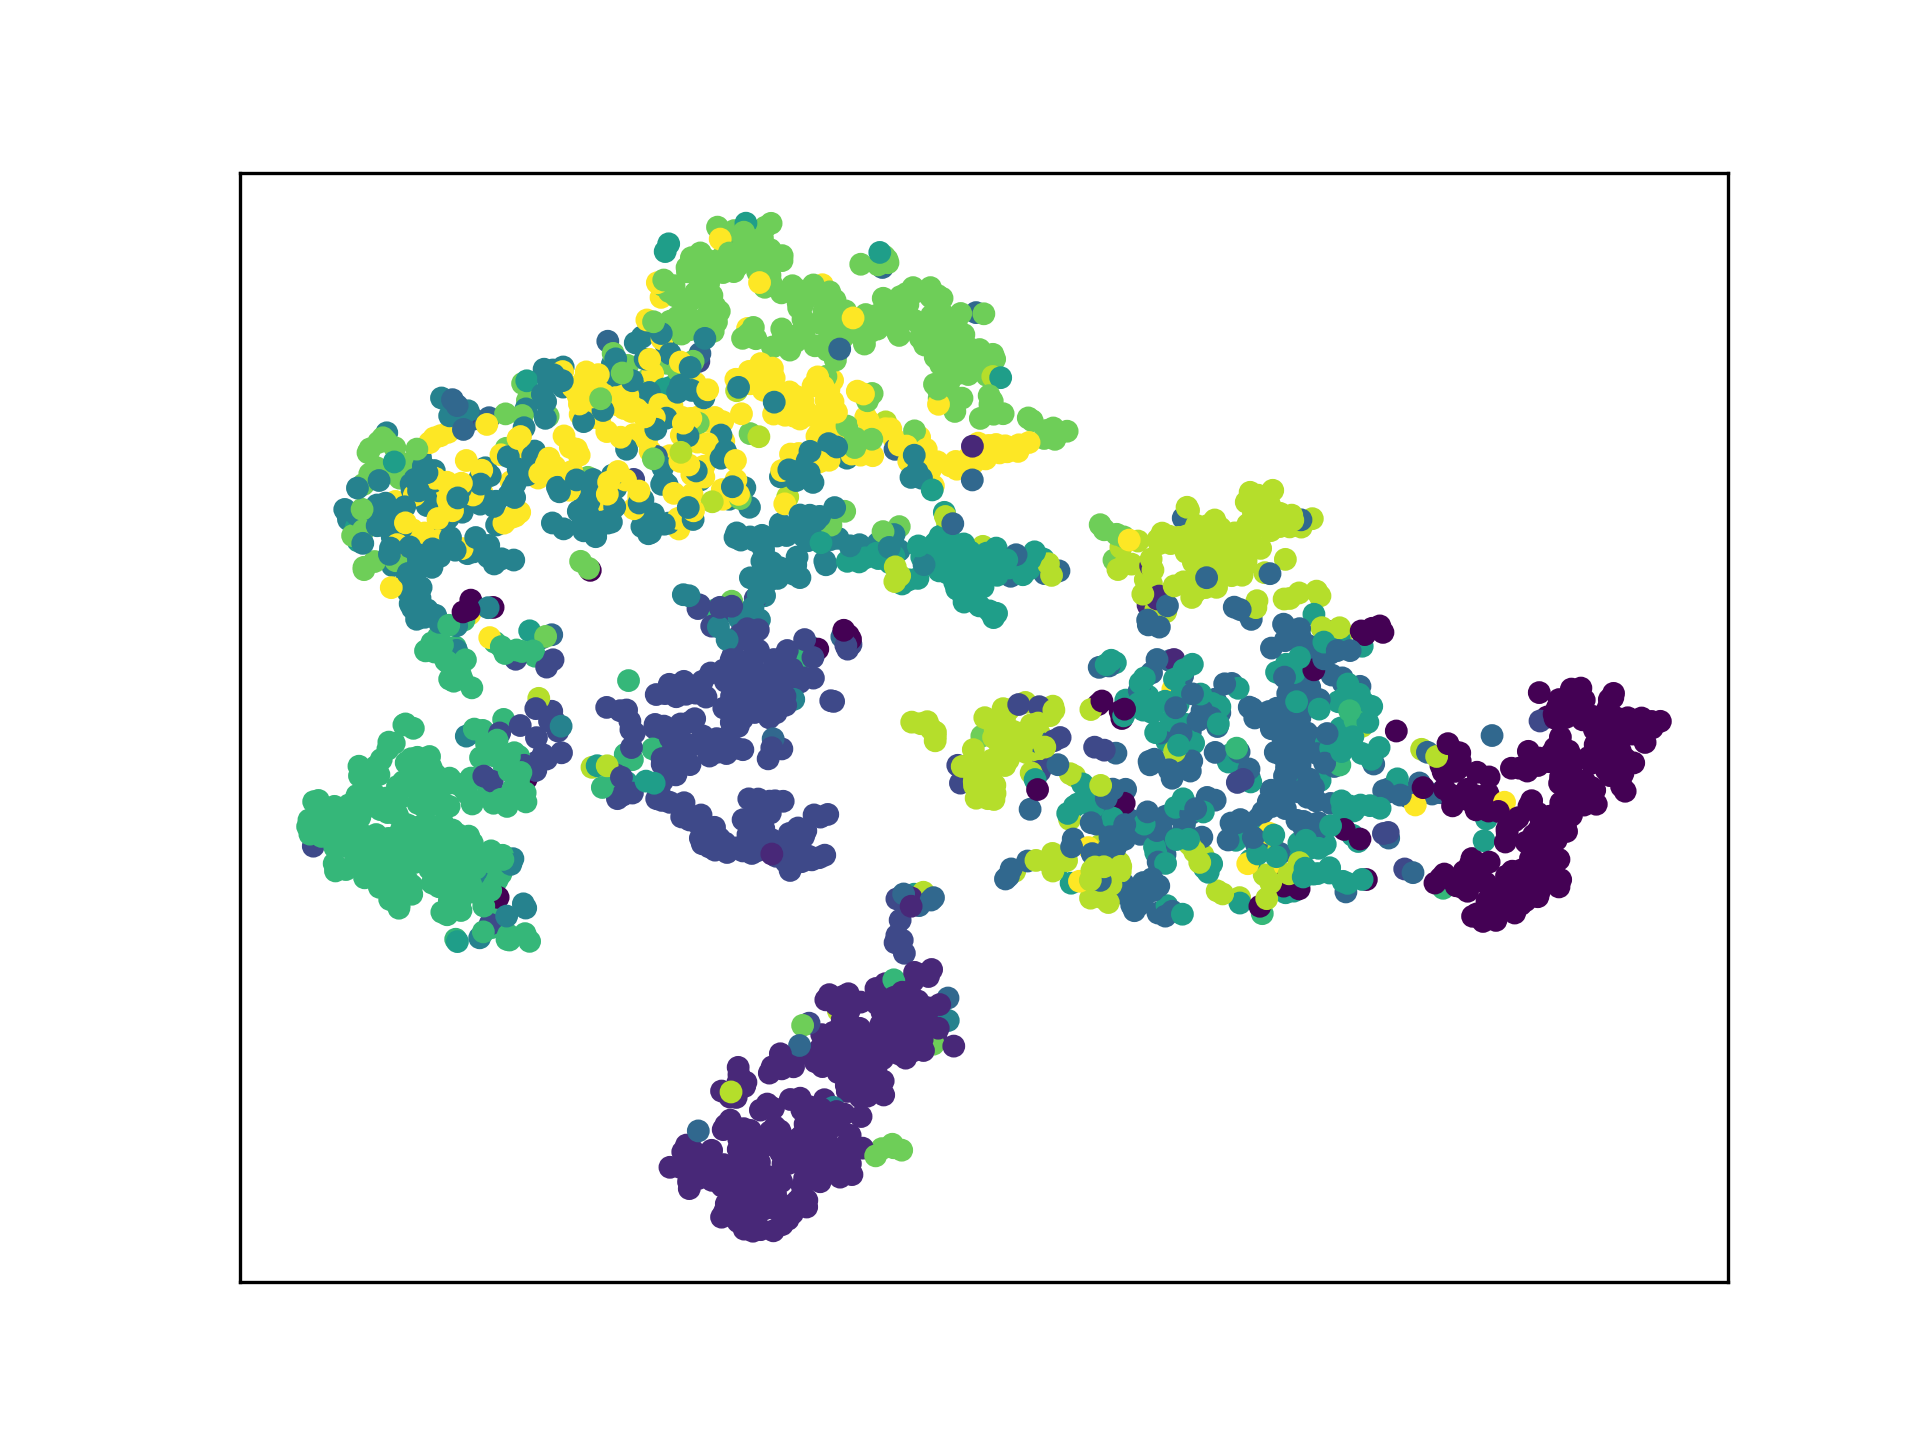
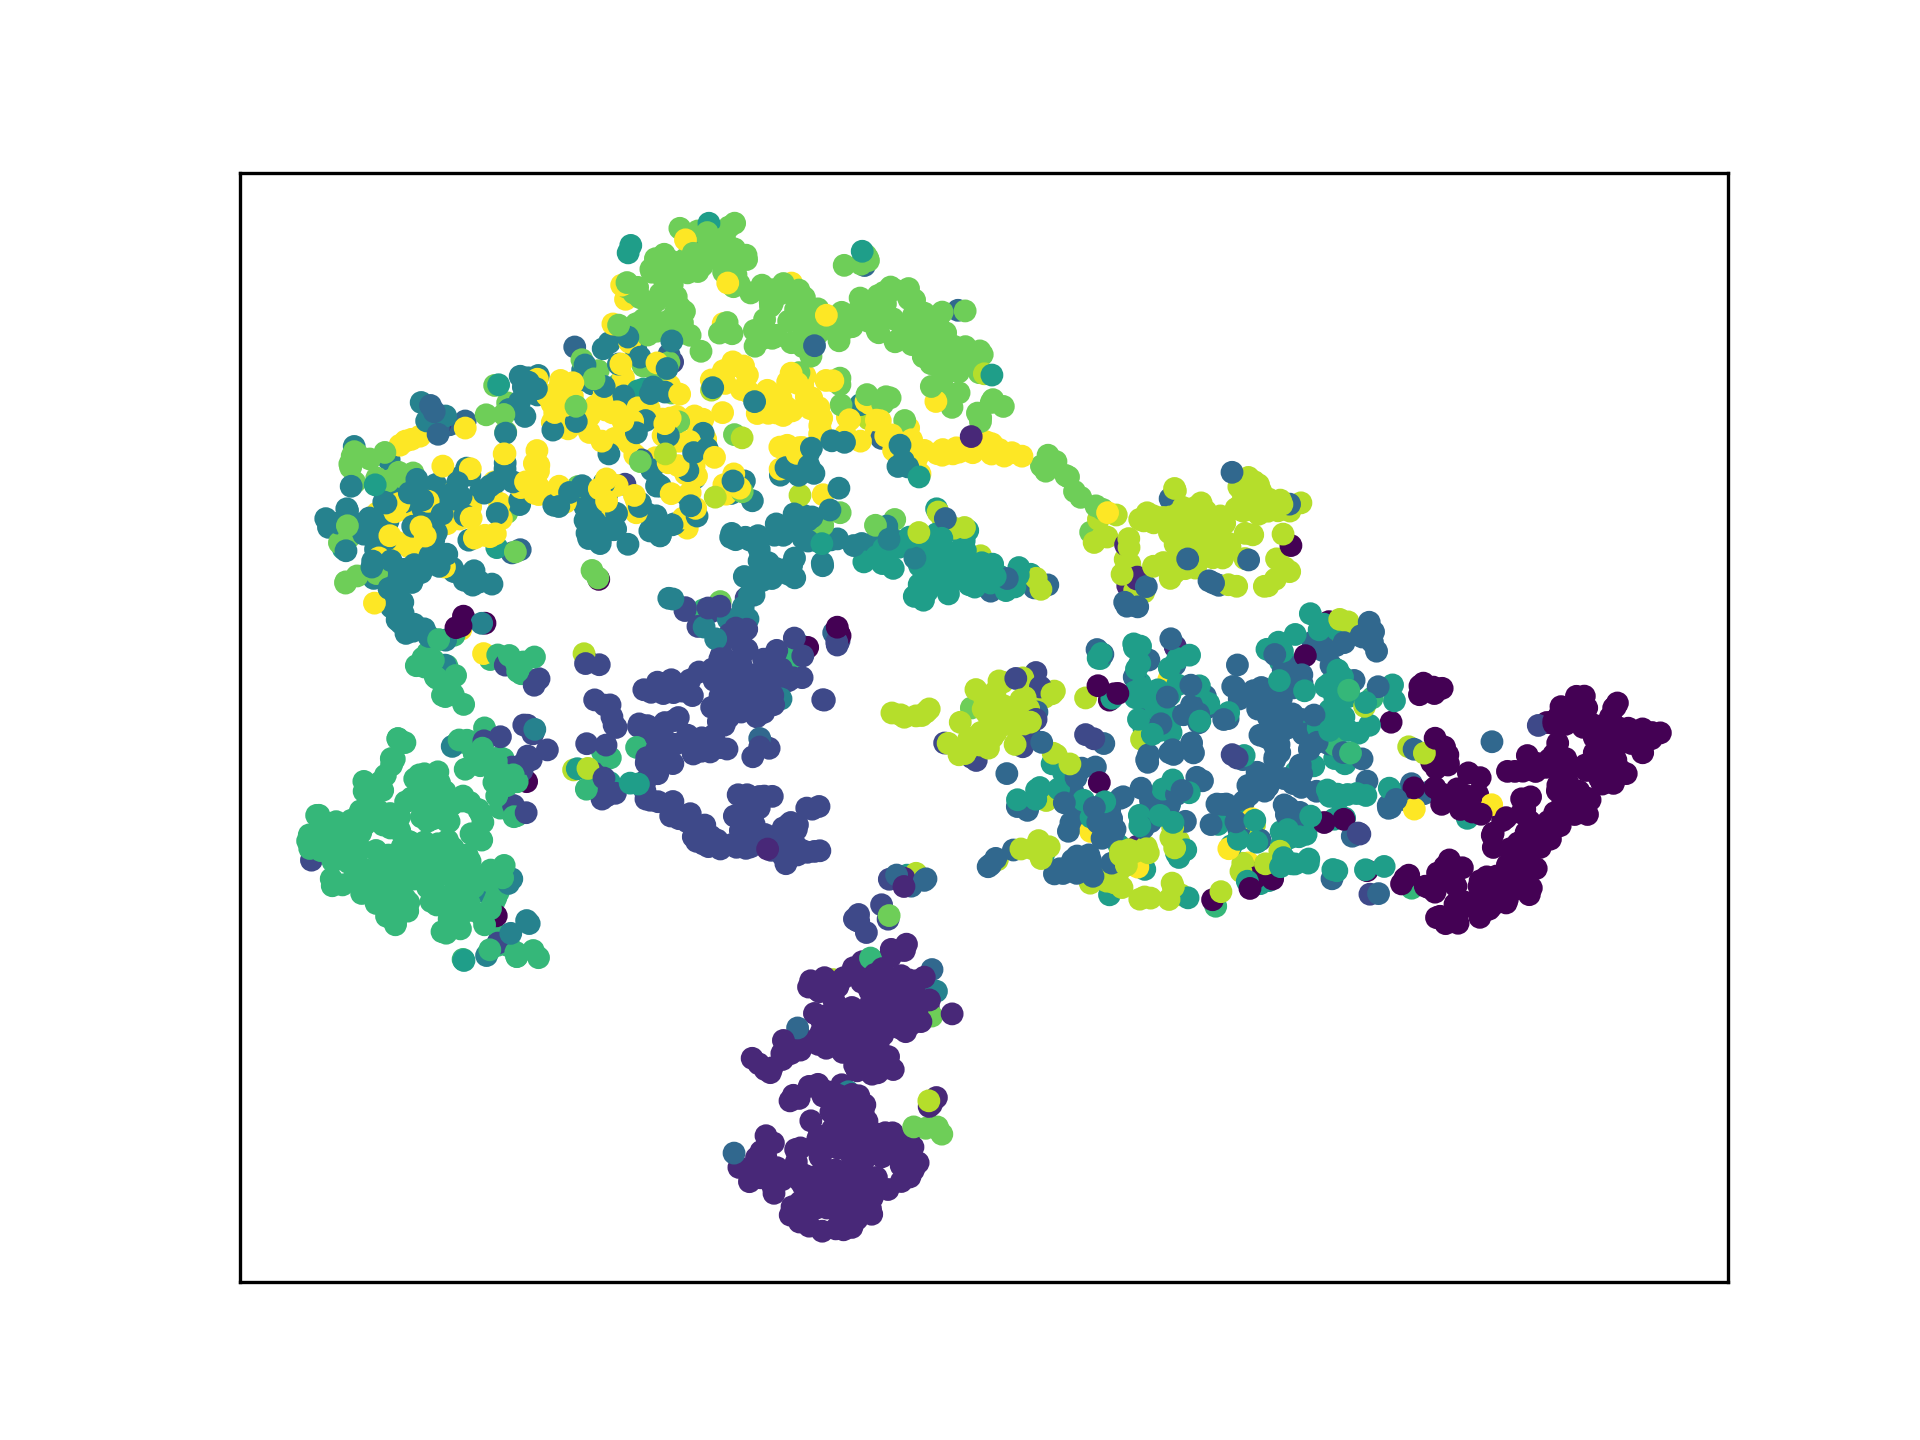
:memo: README

Changed region(s): [[0.1562, 0.125, 0.875, 0.875]]

diff --git a/tsne_torch.py b/tsne_torch.py
@@ -185,6 +185,10 @@ def tsne(
     return Y if device == "cpu" else Y.cpu().numpy()
 
 
+class TorchTSNE:
+    pass
+
+
 def main(xfile, yfile, iter, perplex, lr, exager, seed, verbose):
     X = torch.Tensor(np.loadtxt(xfile))
     labels = np.loadtxt(yfile).tolist()

diff --git a/README.md b/README.md
@@ -1,40 +1,38 @@
 # t-SNE pytorch Implementation with CUDA
-`pytorch` implementation of algorithm described in [Visualizing Data using t-SNE](https://lvdmaaten.github.io/publications/papers/JMLR_2014.pdf). This code support cuda accelerating.
+
+A [pytorch](https://pytorch.org) implementation of the tSNE algorithm described in [Visualizing Data using t-SNE](https://lvdmaaten.github.io/publications/papers/JMLR_2014.pdf) with CUDA acceleration.
+
+## Installation
+
+Clone this repository and install the required packages using [uv](https://docs.astral.sh/uv) as follows:
+
+```bash
+uv sync
+```
+
+This will install the required packages defined in the `pyproject.toml` file (or if available, `uv.lock`).
+
+To allow for importing `TorchTSNE` in other projects, add the path of the repository root to your PYTHONPATH as follows:
+
+```bash
+export PYTHONPATH=$PYTHONPATH:$(pwd)
+```
 
 ## How to use it
-Just download the repository, and the unzip mnist2500_X.zip or put feature file and labels file with code
 
-<p align="left">1. run without cuda support</p>
+Just download the repository, and the unzip mnist2500_X.zip or put feature file and labels file with code.
+
+Then run `tsne_torch.py` given the desired inputs (and the `-v` verbose option to see what's happening under the hood):
 
 ```bash
-python tsne_torch.py --xfile mnist2500_X.txt --yfile mnist2500_labels.txt --cuda 0
+python tsne_torch.py -x mnist2500_X.txt -y mnist2500_labels.txt -v
 ```
-2.run with cuda support 
-```bash
-python tsne_torch.py --xfile mnist2500_X.txt --yfile mnist2500_labels.txt --cuda 1
-```
+
+The script will automatically detect if a CUDA enabled GPU is available and make use of it.
+
 ***Note:*** The input data should be normalized to the range [0.0, 1.0], otherwise you may get the 'nan' result.
-
-## Requirements
-* pytorch
-* matplotlib, numpy
-
-
-## Example
-This is our result compare to result of python implementation.
-* pytorch result
-* use time 352s on 2080Ti GPU
-
-![computing time](images/pytorch_result.png)
-![pytorch result](images/pytorch.png)
-
-* python result
-* use time 634s on CPU
-
-![computing time](images/python_result.png)
-![python result](images/python.png)
 
 
 ## Credit
-This code highly inspired by 
-* author's python implementation code [here](https://lvdmaaten.github.io/tsne/).
+
+This code is inspired by https://lvdmaaten.github.io/tsne
